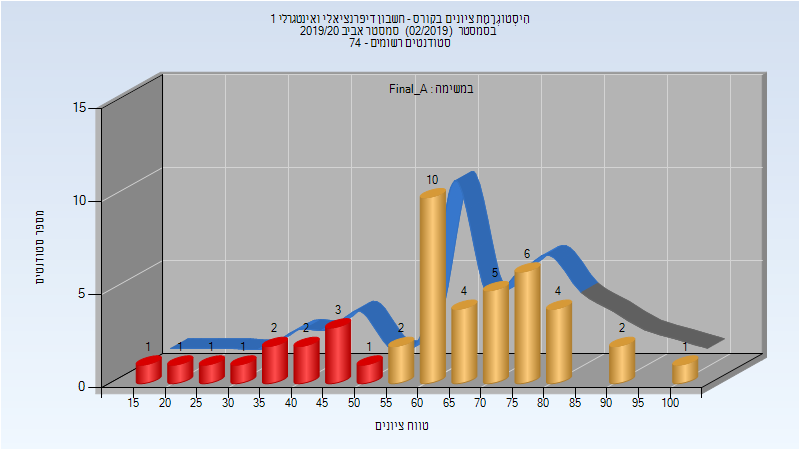
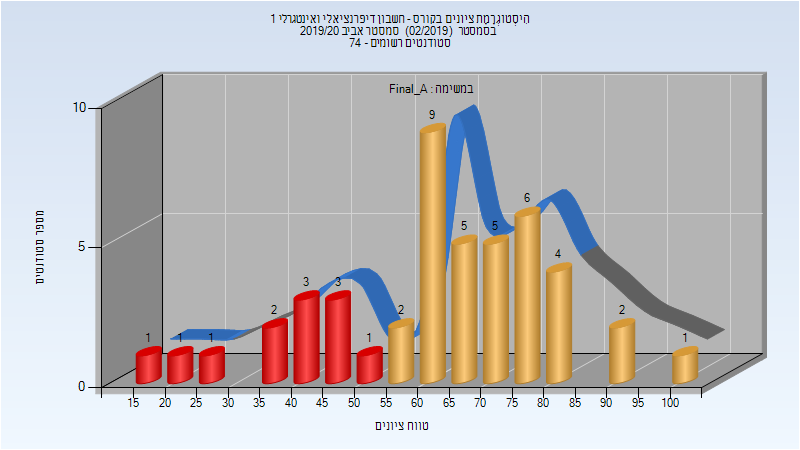
Deploy michael-maltsev/technion-histograms to github.com/michael-maltsev/technion-histograms.git:gh-pages

diff --git a/104003/index.html b/104003/index.html
@@ -1609,8 +1609,34 @@
 <td>74</td>
 <td>19</td>
 <td>100</td>
-<td>62.848</td>
-<td>64</td>
+<td>63.196</td>
+<td>64.5</td>
+</tr>
+</tbody>
+</table>
+<h3>סופי</h3>
+<p><img src="201902/Finals.png" alt="201902 Finals" /></p>
+<table>
+<thead>
+<tr>
+<th>סטודנטים</th>
+<th>עברו/נכשלו</th>
+<th>אחוז עוברים</th>
+<th>ציון מינימלי</th>
+<th>ציון מקסימלי</th>
+<th>ממוצע</th>
+<th>חציון</th>
+</tr>
+</thead>
+<tbody>
+<tr>
+<td>46</td>
+<td>34/12</td>
+<td>74</td>
+<td>19</td>
+<td>100</td>
+<td>63.196</td>
+<td>64.5</td>
 </tr>
 </tbody>
 </table>

diff --git a/104003/README.md b/104003/README.md
@@ -502,5 +502,13 @@
 
 | סטודנטים | עברו/נכשלו | אחוז עוברים | ציון מינימלי | ציון מקסימלי | ממוצע | חציון |
 | ---- | ---- | ---- | ---- | ---- | ---- | ---- |
-| 46 | 34/12 | 74 | 19 | 100 | 62.848 | 64 |
+| 46 | 34/12 | 74 | 19 | 100 | 63.196 | 64.5 |
+
+### סופי
+
+![201902 Finals](201902/Finals.png)
+
+| סטודנטים | עברו/נכשלו | אחוז עוברים | ציון מינימלי | ציון מקסימלי | ממוצע | חציון |
+| ---- | ---- | ---- | ---- | ---- | ---- | ---- |
+| 46 | 34/12 | 74 | 19 | 100 | 63.196 | 64.5 |
 
